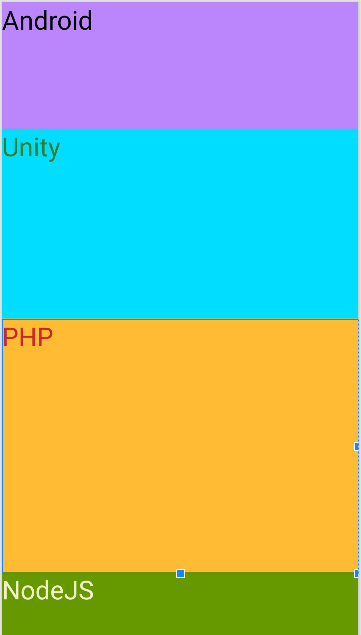
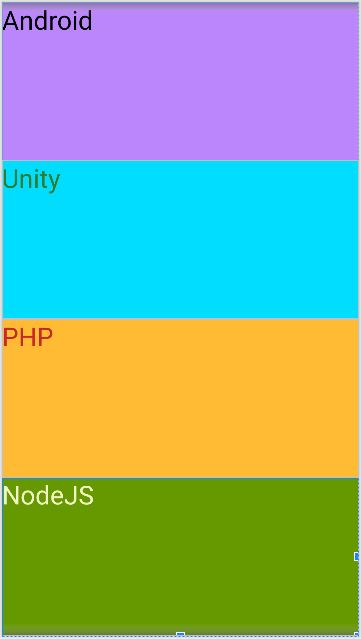
insert image into README.md

diff --git a/README.md b/README.md
@@ -1,10 +1,14 @@
 A ViewGroup is a special view that can contain other views (called children.) The view group is the base class for layouts and views containers.
 There are many types of ViewGroup like:
 - LinearLayout
-    - Vertical:
-    
+    - Vertical (equal heigh):
+
     ![LinearLayout_01.png](./assets/LinearLayout_01.png)
 
+    - Vertical (height with different weight):
+
+    ![LinearLayout_01.png](./assets/LinearLayout_02.png)
+    
 - ConstraintLayout
 - Toolbar
 - RelativeLayout
